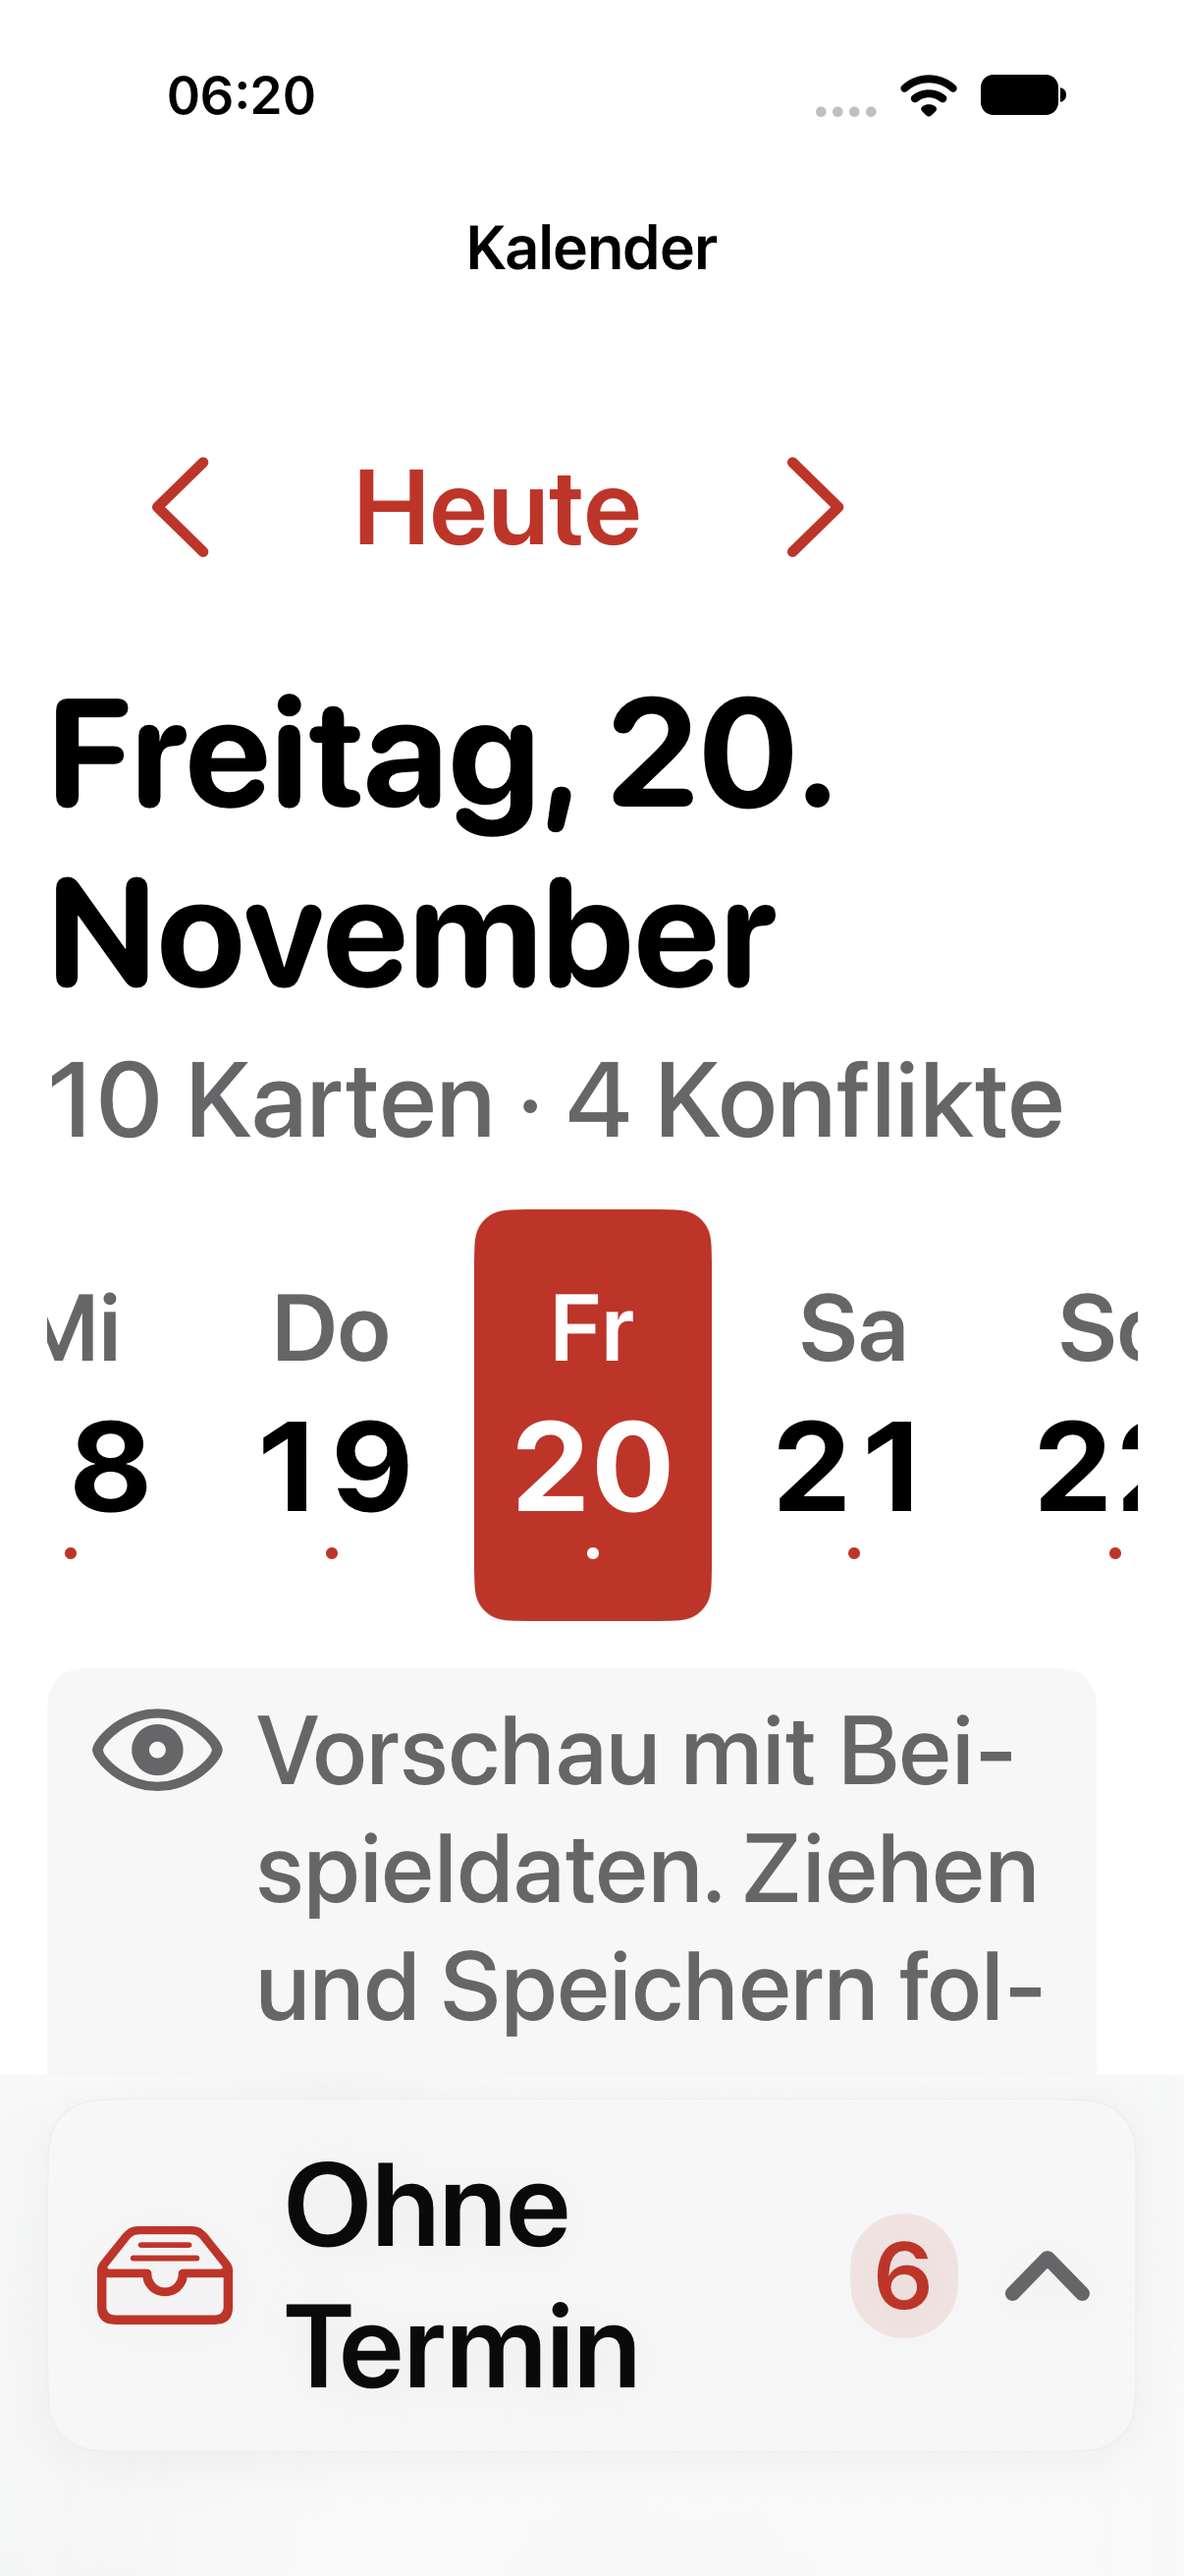
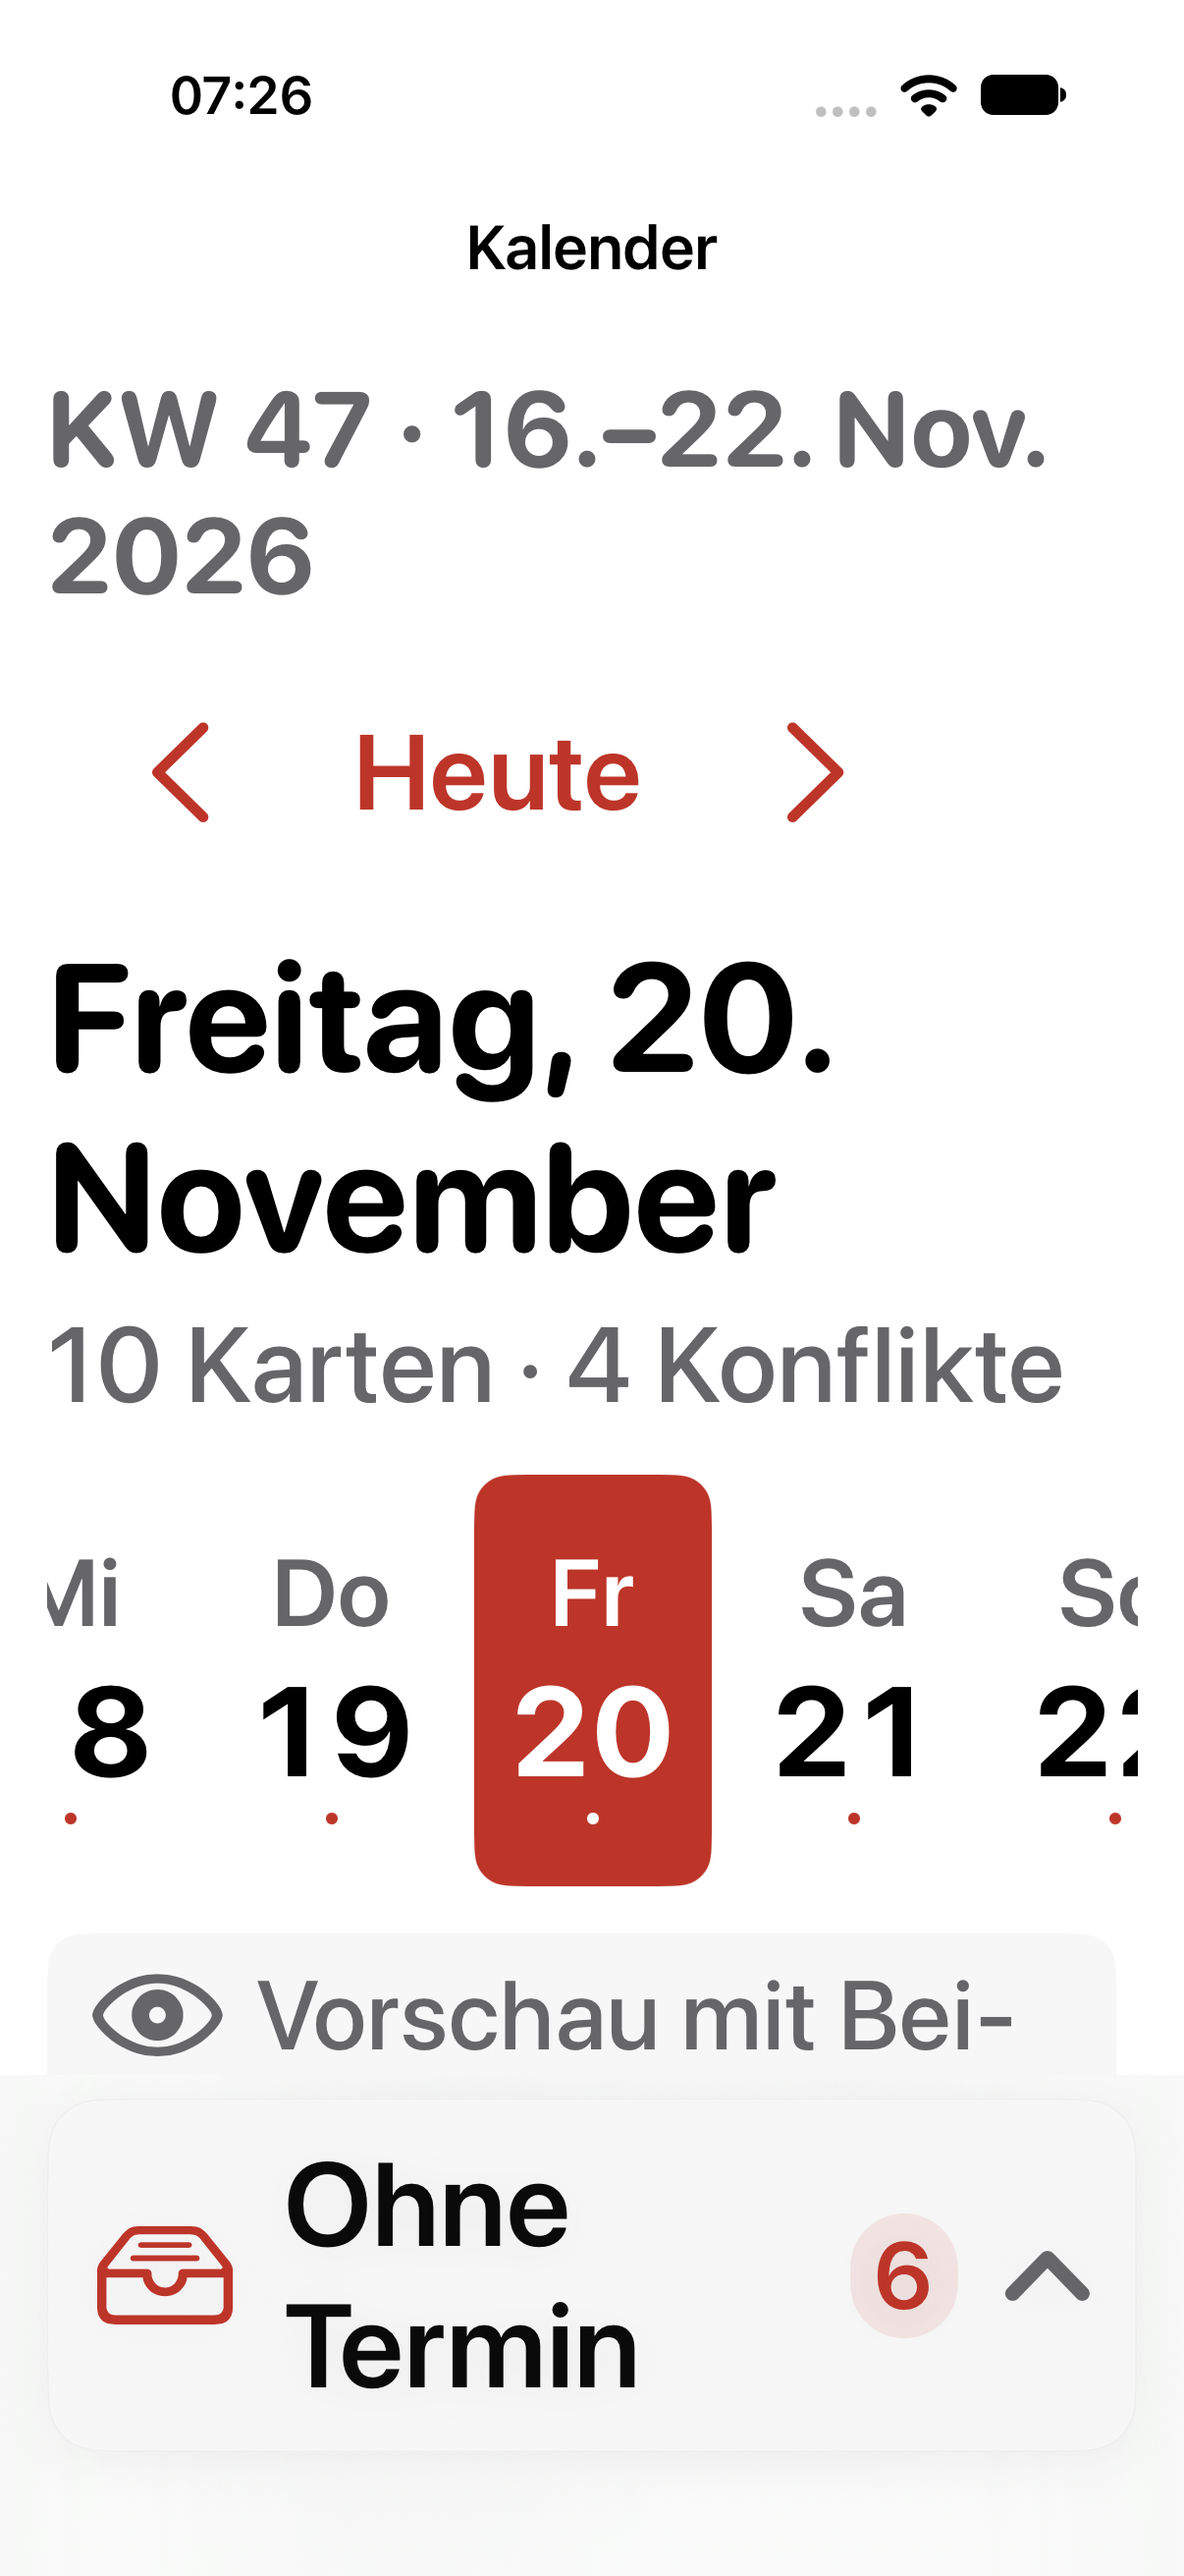
Docs: CALENDAR.md Bilder und Stand Phase 2, STATUS-Nachtrag, Aufnahmen Kalender (iPhone, iPad, Mac, Live); Karte 8CECAD24

diff --git a/docs/CALENDAR.md b/docs/CALENDAR.md
@@ -1,6 +1,6 @@
 # Kalender (Apple) – Regeln, Endpunkte, Schreibweg
 
-Karte 8CECAD24. Vorlage: ADR 0033 (Hauptrepo `docs/adr/0033-kalender-geplanter-start-und-waechter.md`, Abschnitt 3), PWA `web/src/lib/calendar.ts`. Verträge: `contracts/planning-ext.yaml` 1.2.0, `contracts/sync.yaml` 1.5.0. Stand: Phase 1 (Client-Bausteine in TodoCore, statische Vorschau in der App). Ziehen, Schreiben und Offline sind Phase 2.
+Karte 8CECAD24. Vorlage: ADR 0033 (Hauptrepo `docs/adr/0033-kalender-geplanter-start-und-waechter.md`, Abschnitt 3), PWA `web/src/lib/calendar.ts`. Verträge: `contracts/planning-ext.yaml` 1.2.0, `contracts/sync.yaml` 1.5.0. Stand: Phase 2 (Schreiben: Ziehen, Editor, Entplanen, Rollback, Offline-Queue, Live-Aktualisierung; Ende-zu-Ende gegen das native Backend).
 
 ## Endpunkte (TodoCore `Schedule.swift`)
 - `APIClient.schedule(from:to:projectID:limit:)` = `GET /v1/planning/schedule` (Fenster `[from, to)`, höchstens 62 Tage, `limit` 1 bis 500, `ScheduleResponse.truncated`). Eintrag `ScheduleEntry` mit `version`, `plannedAt/Minutes/AllDay`, `dueAt`, `canEdit`, `autoStart`, `repositoryKey`, `conflicts`.
@@ -19,10 +19,20 @@ Karte 8CECAD24. Vorlage: ADR 0033 (Hauptrepo `docs/adr/0033-kalender-geplanter-s
 - Drop (`CalendarDrop.decide`): Seitenleiste -> Raster setzt Start; Raster -> Raster verschiebt Start, Dauer bleibt; -> Tageskopf = ganztägig am Tagesbeginn; Ganztägig -> Raster zählt die Drop-Zeit (`plannedAllDay: false`); -> Seitenleiste löscht `plannedAt` (Server löscht Dauer/Ganztägig mit), aber bei Wiederholung ohne `dueAt` `refused(.recurrenceNeedsDate)`. Nur `canEdit` und nicht erledigt ziehbar (`refused(.readOnly/.done)`). Gleiche Position = `noChange`.
 - Optimistik: `SchedulePatch.applied(to:)` (Serverregeln), `SchedulePatch.inverse(of:)` für Rollback bei 409/Fehler (danach neu laden) und Rückgängig.
 
-## Online-PATCH oder Sync-Queue (Entscheidung)
-- Online immer `PATCH .../schedule`: Teilschreibweg mit Version und genauen Fehlern; sync 1.5.0 sagt ausdrücklich, das Verschieben läuft online darüber.
-- Offline ist `task.planning` (Queue, Vollersatz) nur der Rückfall (`ScheduleWriteRoute.choose`). **Lücke:** `SyncMutation` kennt `plannedMinutes`/`plannedAllDay` noch nicht, und die lokale Anzeige der Queue (`planningData`) trägt sie nicht. Verschieben/Entplanen (nur `plannedAt`) ist deshalb queue-fähig, Ganztägig und Dauer nicht (`unavailableOffline`: mit Hinweis ablehnen, nichts geht verloren). Die Mutation um die Schlüssel zu erweitern (nur senden, wenn gesetzt, "nur übernommen wenn gesendet") und Overlay/Store anzupassen ist Phase 2; dort auch entscheiden, ob Offline-Drops einen Versionskonflikt-Dialog brauchen.
-- Die REST-Outbox (`PlanningOutbox`) ist die Brücke für Server vor 1.4.0 und bleibt unverändert; sie replayt `PUT` mit dem mitgeführten `PlanningData`.
+## Online-PATCH oder Sync-Queue (Entscheidung, umgesetzt)
+- Online immer `PATCH .../schedule` (Teilschreibweg mit Version, genaue Fehler). `CalendarModel.submit`: optimistisch anzeigen, `updateSchedule(version:)`, bei Erfolg die Serverantwort (neue Version) übernehmen und still neu laden (Marken von Server); bei **jedem** Fehler Rollback (`SchedulePatch.inverse` bzw. alter Eintrag), Neuladen des Plans und eine deutsche Meldung (`calendar.notice.*`: 409, erledigt, nur Lesen, Wiederholung ohne Frist, Dauer, Ganztägig ohne Start, nicht gefunden). Pro Karte höchstens ein Schreibvorgang gleichzeitig (`busy`, sonst Version veraltet).
+- Kein Netz (`APIError.transport`): `ScheduleWriteRoute` entscheidet; `SyncEngine.setSchedule` stellt `task.planning` (sync 1.5.0, Vollersatz) aus der aktuellen Planung der Karte inklusive früherer Queue-Einträge zusammen und sendet immer `plannedMinutes`/`plannedAllDay` mit (`SyncMutation.schedule`). Ohne Start sendet es keine Dauer und `plannedAllDay=false` (der Server löscht beides ohnehin). Eine `null`-Dauer lässt sich nicht ausdrücken (`ScheduleError.notAvailableOffline`, Hinweis, Rollback). Die Karte zeigt bis zum Senden die Marke "Wird gesendet" und den Hinweis "Ohne Verbindung gespeichert".
+- Reconnect: die Queue sendet beim Sync; nach `unsentChanges` 0 lädt der Kalender neu. Ein 409 beim Replay wird für Kalender-Bearbeitungen **nicht** still wiederholt (`SyncMutation.isScheduleEdit`): Status `conflict`, die Karte zeigt den Serverstand, der vorhandene Sync-Dialog ("Meine Änderung behalten / Serverstand übernehmen") entscheidet; "behalten" sendet auf der neuen Version. Gewöhnliche Planungsbearbeitungen (Frist, Priorität) behalten den einmaligen stillen Wiederholungsversuch. Eine gewöhnliche Planungsbearbeitung (1.4.0-Draht) lässt Dauer/Ganztägig weg, der Server behält sie; die lokale Ansicht (`metaOverlay`) auch.
+- Die REST-Outbox (`PlanningOutbox`) bleibt die Brücke für Server vor 1.4.0 unverändert.
+
+## Rolle der Seitenleistenkarten
+`/v1/planning/unscheduled` liefert keine Rolle. `CalendarModel.load` nimmt `canEdit` von Schedule-Einträgen desselben Projekts und fragt sonst `GET /v1/projects/{id}/visibility` (Rolle >= edit); unbekannt oder Fehler = **nicht ziehbar** (konservativ, der Server entscheidet ohnehin mit 403). Live bestätigt: Rolle `read` liefert `canEdit=false` und beim Schreiben `403`.
+
+## Bedienung
+- iPad/Mac: Karten (Raster, Ganztägig-Zeile, Seitenleiste) sind `draggable` (nur `canDrag`), Spalten, Tageskopf, Ganztägig-Zeile und Seitenleiste sind `dropDestination` (`CalendarDropZone`, Ziel aus der Drop-Position, Einrasten 15 Minuten). Tippen/Klick öffnet das Detail (voller Titel, Projekt, Start, Dauer, Frist, Auto-Start nur als Anzeige, Marken). Kontextmenü und VoiceOver-Aktionen: Details, "Start und Dauer …", "Entplanen".
+- iPhone: Tippen auf die Karte öffnet das Detail, langes Drücken das Menü ("Start und Dauer …" = Editor `ScheduleEditing`, "Entplanen"). Editor: Ganztägig, Start, Dauer in 15-Minuten-Schritten; nur geänderte Felder werden gesendet, Standarddauer 30 Minuten wird nicht als Wert gesendet.
+- Auto-Start: nur Anzeige (Marke, Detailzeile), kein Umschalten. `dueAt` wird nirgends geschrieben (`SchedulePatch` hat keinen Schlüssel dafür).
+- Live: `LiveHub.subscribe` lädt den Plan bei Änderungen am Server nach; nach einem Reconnect lädt der Kalender neu.
 
 ## UI (Phase 1: nur Ansicht, Beispieldaten in Vorschauen)
 - Einstieg: Seitenleiste "Planen" (iPad/Mac), Cmd-8, iPhone: Schaltfläche "Kalender" in der Werkzeugleiste von "Planen" (Tab-Struktur und Heute/Anstehend/Eingang unverändert).
@@ -30,5 +40,13 @@ Karte 8CECAD24. Vorlage: ADR 0033 (Hauptrepo `docs/adr/0033-kalender-geplanter-s
 - Marken immer mit Symbol und Text (Frist, Konflikte, Auto-Start nur als Anzeige, erledigt, nur lesen).
 - Debug: `TODO_DEBUG_CALENDAR_PREVIEW=1` (Beispieldaten, kein Server), `TODO_DEBUG_SELECT=calendar`. Aufnahmen: `App/UITests/CalendarPreviewTour.swift` nach `docs/screenshots/kalender-apple-vorschau/`.
 
-## Phase 2 braucht
-Ziehen (`draggable`/`dropDestination`, Bearbeiten-Blatt "Start und Dauer" für iPhone), Schreiben über `CalendarDrop` und `ScheduleWriteRoute` mit Rollback/Neuladen, Rolle der Seitenleistenkarten (`canEdit` kommt dort nicht vom Server), Live-Refresh, Queue-Erweiterung (oben), Dauer per Ziehen am unteren Rand, Monatsansicht, Tastatur/VoiceOver-Aktionen, Ende-zu-Ende gegen das native Backend.
+## Bilder
+`docs/screenshots/kalender-apple-vorschau/` (Beispieldaten, `CalendarPreviewTour`, eigener Simulator; Helligkeit geprüft: hell Mittel >= 209, dunkel <= 44):
+- iPhone: `tagesliste-hell|dunkel`, `tagesliste-hell-accessibility3` und `tagesliste-karten-hell-accessibility3` (Wochenstreifen bei großer Schrift mittig, ganze Datumswerte erreichbar), `ohne-termin-blatt-hell`, `detail-karte-hell` (voller Titel, Projekt, Start, Dauer, Frist, Auto-Start nur Anzeige), `start-und-dauer-hell`, `rollback-hinweis-hell` (409, Karte zurück, Hinweis).
+- iPad: `wochenraster-hell|dunkel`, `wochenraster-quer-hell`, `wochenraster-quer-hell-xxxl`, `ueberlappung-detail-hell` (Antippen eines überlappenden Termins), `ziehen-nachher-hell` (Block nach echtem Ziehen verschoben).
+- Mac (Offscreen-Rendering, kein Fenster): `mac-wochenraster-hell|dunkel`, `mac-rollback-hinweis-hell`.
+- Echtes Backend (iPad, `CalendarLiveTour`, Konto aus `testLiveSeedCalendarTourAccount`): `live-ipad-vorher-ziehen`, `live-ipad-nach-ziehen-neustart` (Termin B per Ziehen von 10:30 nach 13:45, nach Neustart unverändert).
+iPad quer: Der Simulator liefert die Bildschirmaufnahme im gedrehten Format; die Tour schreibt `...-roh.png`, danach `sips -r 270`. Mac: `TODO_DEBUG_CALENDAR_RENDER=<Ordner>`. Live-Lauf: `TODO_UITEST_SERVER`, `TODO_UITEST_TOKEN`, `TODO_TOUR_OUT`; auf dem iPad löst ein langer Druck (>= 1 s) das Kontextmenü statt des Ziehens aus, die Tour drückt 0,5 s.
+
+## Noch offen
+Dauer per Ziehen am unteren Rand, Monatsansicht, Tastatur (Pfeile verschieben, Umschalt+Pfeil Dauer), Rückgängig, Mac im echten Fenster, dunkle Fassungen der neuen Blätter (Detail, Editor, Überlappung), Auto-Start-Nachholen-Rückfrage (ADR 0033 Abschnitt 4), App-Ende-zu-Ende mit Offline (nur auf Client-Ebene belegt, siehe STATUS).

diff --git a/docs/STATUS.md b/docs/STATUS.md
@@ -24,6 +24,12 @@ Stand 26.10.2026, Branch `feature/etappe1-client`. Globale Doku und Arbeitsplan:
 Echte Domain/RP-ID festlegen, Entitlement aktivieren, Passkey auf Gerät prüfen; UI im Simulator ansehen; Watch-Sitzungsübernahme entwerfen.
 Nach Backend-Auth (Etappe 1): Login/Passkey und Projekt-/Aufgabenliste im Client gegen `contracts/openapi.yaml`.
 
+## Nachtrag 20.11.2026 (4) Kalender Phase 2: Schreiben, Offline, Live, Ende-zu-Ende (Karte 8CECAD24, Branch agent/apple-kalender, nicht gemergt, nicht gepusht)
+Stand: Ziehen (iPad/Mac `draggable`/`dropDestination`: Raster, Ganztag-Zeile, Seitenleiste = Entplanen), iPhone Kontextmenü und Blatt "Start und Dauer", Detailblatt mit vollem Titel (Antippen, auch bei überlappenden Terminen), Auto-Start nur Anzeige. Online immer `PATCH /v1/tasks/{id}/schedule` mit `version`; 15-Minuten-Raster, Standard 30 Minuten, ganztägig = Tagesbeginn; `dueAt` wird nie geschrieben; Konflikte nur angezeigt; nur Rolle edit zieht, Seitenleisten-Karten mit unbekannter Rolle sind nicht ziehbar (Rolle aus Schedule-`canEdit` oder `/visibility`). Fehler (409 `version_conflict`/`task_done`, 403, 422 usw.): optimistische Anzeige, Rollback, Plan neu laden, deutscher Hinweis. Offline: `SyncMutation` um `plannedMinutes`/`plannedAllDay` (sync 1.5.0), Karte zeigt Uhr bis der Server sie hat; Konflikt beim Replay wird sichtbar (Status conflict, `resolveConflict`), nicht still wiederholt; Dauer löschen offline abgelehnt mit Hinweis. Live: `LiveHub`-Abonnement lädt den Plan nach, ebenso nach Reconnect. Lücke in CALENDAR.md (Queue ohne Dauer/Ganztag) geschlossen.
+Prüfung (Befehle über sparsam): Tests zuerst rot (`CalendarSyncTests`, `ScheduleEditingTests`: Kompilierfehler, API fehlte), dann grün; voller TodoCore-Lauf 379 Tests, 37 übersprungen (Live ohne Server), 0 Fehler. Live gegen natives Backend (SQLite, Port 28873, frische DB, `migrate --yes`, `TODO_LIVE_BASE_URL`): `LiveCalendarTests` 6 Tests, 0 Fehler (Verschieben, Ganztag, Dauer, Entplanen, Persistenz im neuen Client, Frist-Konflikt wie Server, typisierte Fehler, Rollen, 409 mit zweitem Client, Offline-Queue mit Replay und Konflikt). Gegenprobe mit `GET /v1/planning/schedule` und `/unscheduled`. App-Ebene (iPad-Simulator, echte App gegen das Backend, `CalendarLiveTour`): Termin B per Ziehen von 10:30 auf 13:45 (Server 12:45Z, Version 2 auf 3), Neustart der App zeigt denselben Platz, Test grün (Exit 0). iOS-Build und macOS-Build Exit 0, `CalendarPreviewTour` iPhone und iPad grün, Mac-Offscreen-Rendering Exit 0.
+Bilder `docs/screenshots/kalender-apple-vorschau/` (Liste in docs/CALENDAR.md), alle angesehen, Helligkeit geprüft (hell >= 209, dunkel <= 44). Beim Ansehen gefunden und behoben: Detailblatt `.medium` verdeckte "Start und Dauer" (jetzt `.large`), iPad hochkant fiel auf Tagesliste zurück (Mindestbreiten gesenkt), erster Ziehen-Versuch zu kurz; im Live-Lauf löste ein 1-Sekunden-Druck das Kontextmenü statt des Ziehens aus (Tour: 0,5 s).
+Lücken: App-Ebene nur für Verschieben mit Neustart belegt; Offline und 409 sind auf Client-Ebene (Live-Tests) und im Beispielmodus (Rollback-Bild) belegt, nicht als App-Lauf gegen das Backend; neue Blätter (Detail, Editor, Überlappung, Rollback) nur hell; Mac nur offscreen gerendert, nie im echten Fenster bedient; Dauer per Ziehen am unteren Rand, Monatsansicht, Tastatur, Rückgängig, Auto-Start-Nachholen offen. Ziehen mit echtem Finger (kürzerer Druck als das Kontextmenü) nicht auf einem Gerät geprüft.
+
 ## Nachtrag 20.11.2026 (3) Kalender Phase 1: TodoCore-Bausteine und statische Vorschau (Karte 8CECAD24, Branch agent/apple-kalender, nicht gemergt, nicht gepusht)
 Ist-Abgleich: Basis Apple-main 9c615ce; `PlanningData` kannte nur Frist/Start/Priorität/Wiederholung/Erinnerungen, kein Schedule-Client, kein Kalender in der App. Vertrag/Regeln: `docs/CALENDAR.md` (Endpunkte, Regeln, Queue-Entscheidung, Phase-2-Liste).
 Stand: TodoCore `PlanningData` additiv um `plannedMinutes`, `plannedAllDay`, `autoStart`, `autoStartedAt` (alte Server: Standardwerte; `PUT` sendet Dauer nur wenn gesetzt, Auto-Start nie); neu `Schedule.swift` (`ScheduleEntry/Response`, `SchedulePatch`/`ScheduleUpdate` mit keep/set/clear, `ScheduleError`, `schedule`, `unscheduled`, `updateSchedule`) und `CalendarPlanning.swift` (Einrasten, Fenster in Ortszeit, Spalten/Überlappung, Konfliktmarken, Drop-Regeln, optimistische Sicht/Inverse, `ScheduleWriteRoute`). App: Ansicht "Kalender" nur lesend (`CalendarModel/Screen/DayList/WeekView/Parts`, Seed nur DEBUG), Einstieg Seitenleiste "Planen", Cmd-8, iPhone Werkzeugleiste von "Planen". Heute/Anstehend/Eingang unverändert.
